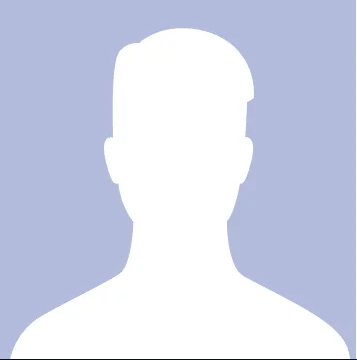
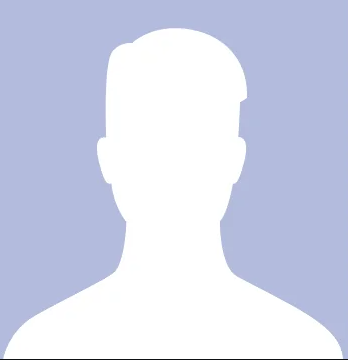
Update

diff --git a/html/presentations.html b/html/presentations.html
@@ -31,82 +31,55 @@ rel="stylesheet"/>
     <div id="Presentars">
         <div class="PresentarBox">
             <div class="PresentarImg">
-                <img src="../images/vedant.jpg" alt="">
+                <img src="../images/profile.png" alt="">
             </div>
             <div class="PresentarTitle">
-                <h1>The Bug Hunters Methodology Live - DEF CON Edition</h1>
-                <h2>Jason Haddix (@jhaddix)</h2>
-                <h3>Workshop | Village Classroom</h3>
+                <h1>T.B.D</h1>
+                <!-- <h2>Jason Haddix (@jhaddix)</h2> -->
+                <!-- <h3>Workshop | Village Classroom</h3> -->
             </div>
             <div class="PresentarAbout">
-                <p>Abstract<br>The Bug Hunter's Methodology (TBHM) is a series of talks done by Jason exposing new advents in tools, tactics, and procedures used in web pentesting, bug bounty, and red teaming. In this talk, Jason will explore the mindset of approaching a hardened web target and how he breaks up finding vulnerabilities across its' stack. Many talks can teach you how to exploit a certain vulnerability, less can teach you how to find out where they are in complex pieces of software. TBHM also covers Jason's personal tips/tricks in the areas of automation, content discovery, javascript analysis, spidering, parameter analysis, functionality ""heatmapping"", and more. The DEF CON edition will not be recorded and will release some free cutting edge content usually only available in Jasons live courses!</p>
+                <!-- <p>Abstract<br>The Bug Hunter's Methodology (TBHM) is a series of talks done by Jason exposing new advents in tools, tactics, and procedures used in web pentesting, bug bounty, and red teaming. In this talk, Jason will explore the mindset of approaching a hardened web target and how he breaks up finding vulnerabilities across its' stack. Many talks can teach you how to exploit a certain vulnerability, less can teach you how to find out where they are in complex pieces of software. TBHM also covers Jason's personal tips/tricks in the areas of automation, content discovery, javascript analysis, spidering, parameter analysis, functionality ""heatmapping"", and more. The DEF CON edition will not be recorded and will release some free cutting edge content usually only available in Jasons live courses!</p> -->
             </div>
         </div>
         <div class="PresentarBox">
             <div class="PresentarImg">
-                <img src="../images/vedant.jpg" alt="">
+                <img src="../images/profile.png" alt="">
             </div>
             <div class="PresentarTitle">
-                <h1>The Bug Hunters Methodology Live - DEF CON Edition</h1>
-                <h2>Jason Haddix (@jhaddix)</h2>
-                <h3>Workshop | Village Classroom</h3>
+                <h1>T.B.D</h1>
+                <!-- <h2>Jason Haddix (@jhaddix)</h2> -->
+                <!-- <h3>Workshop | Village Classroom</h3> -->
             </div>
             <div class="PresentarAbout">
-                <p>Abstract<br>The Bug Hunter's Methodology (TBHM) is a series of talks done by Jason exposing new advents in tools, tactics, and procedures used in web pentesting, bug bounty, and red teaming. In this talk, Jason will explore the mindset of approaching a hardened web target and how he breaks up finding vulnerabilities across its' stack. Many talks can teach you how to exploit a certain vulnerability, less can teach you how to find out where they are in complex pieces of software. TBHM also covers Jason's personal tips/tricks in the areas of automation, content discovery, javascript analysis, spidering, parameter analysis, functionality ""heatmapping"", and more. The DEF CON edition will not be recorded and will release some free cutting edge content usually only available in Jasons live courses!</p>
+                <!-- <p>Abstract<br>The Bug Hunter's Methodology (TBHM) is a series of talks done by Jason exposing new advents in tools, tactics, and procedures used in web pentesting, bug bounty, and red teaming. In this talk, Jason will explore the mindset of approaching a hardened web target and how he breaks up finding vulnerabilities across its' stack. Many talks can teach you how to exploit a certain vulnerability, less can teach you how to find out where they are in complex pieces of software. TBHM also covers Jason's personal tips/tricks in the areas of automation, content discovery, javascript analysis, spidering, parameter analysis, functionality ""heatmapping"", and more. The DEF CON edition will not be recorded and will release some free cutting edge content usually only available in Jasons live courses!</p> -->
             </div>
         </div>
         <div class="PresentarBox">
             <div class="PresentarImg">
-                <img src="../images/vedant.jpg" alt="">
+                <img src="../images/profile.png" alt="">
             </div>
             <div class="PresentarTitle">
-                <h1>The Bug Hunters Methodology Live - DEF CON Edition</h1>
-                <h2>Jason Haddix (@jhaddix)</h2>
-                <h3>Workshop | Village Classroom</h3>
+                <h1>T.B.D</h1>
+                <!-- <h2>Jason Haddix (@jhaddix)</h2> -->
+                <!-- <h3>Workshop | Village Classroom</h3> -->
             </div>
             <div class="PresentarAbout">
-                <p>Abstract<br>The Bug Hunter's Methodology (TBHM) is a series of talks done by Jason exposing new advents in tools, tactics, and procedures used in web pentesting, bug bounty, and red teaming. In this talk, Jason will explore the mindset of approaching a hardened web target and how he breaks up finding vulnerabilities across its' stack. Many talks can teach you how to exploit a certain vulnerability, less can teach you how to find out where they are in complex pieces of software. TBHM also covers Jason's personal tips/tricks in the areas of automation, content discovery, javascript analysis, spidering, parameter analysis, functionality ""heatmapping"", and more. The DEF CON edition will not be recorded and will release some free cutting edge content usually only available in Jasons live courses!</p>
+                <!-- <p>Abstract<br>The Bug Hunter's Methodology (TBHM) is a series of talks done by Jason exposing new advents in tools, tactics, and procedures used in web pentesting, bug bounty, and red teaming. In this talk, Jason will explore the mindset of approaching a hardened web target and how he breaks up finding vulnerabilities across its' stack. Many talks can teach you how to exploit a certain vulnerability, less can teach you how to find out where they are in complex pieces of software. TBHM also covers Jason's personal tips/tricks in the areas of automation, content discovery, javascript analysis, spidering, parameter analysis, functionality ""heatmapping"", and more. The DEF CON edition will not be recorded and will release some free cutting edge content usually only available in Jasons live courses!</p> -->
             </div>
         </div>
         <div class="PresentarBox">
             <div class="PresentarImg">
-                <img src="../images/vedant.jpg" alt="">
+                <img src="../images/profile.png" alt="">
             </div>
             <div class="PresentarTitle">
-                <h1>The Bug Hunters Methodology Live - DEF CON Edition</h1>
-                <h2>Jason Haddix (@jhaddix)</h2>
-                <h3>Workshop | Village Classroom</h3>
+                <h1>T.B.D</h1>
+                <!-- <h2>Jason Haddix (@jhaddix)</h2> -->
+                <!-- <h3>Workshop | Village Classroom</h3> -->
             </div>
             <div class="PresentarAbout">
-                <p>Abstract<br>The Bug Hunter's Methodology (TBHM) is a series of talks done by Jason exposing new advents in tools, tactics, and procedures used in web pentesting, bug bounty, and red teaming. In this talk, Jason will explore the mindset of approaching a hardened web target and how he breaks up finding vulnerabilities across its' stack. Many talks can teach you how to exploit a certain vulnerability, less can teach you how to find out where they are in complex pieces of software. TBHM also covers Jason's personal tips/tricks in the areas of automation, content discovery, javascript analysis, spidering, parameter analysis, functionality ""heatmapping"", and more. The DEF CON edition will not be recorded and will release some free cutting edge content usually only available in Jasons live courses!</p>
+                <!-- <p>Abstract<br>The Bug Hunter's Methodology (TBHM) is a series of talks done by Jason exposing new advents in tools, tactics, and procedures used in web pentesting, bug bounty, and red teaming. In this talk, Jason will explore the mindset of approaching a hardened web target and how he breaks up finding vulnerabilities across its' stack. Many talks can teach you how to exploit a certain vulnerability, less can teach you how to find out where they are in complex pieces of software. TBHM also covers Jason's personal tips/tricks in the areas of automation, content discovery, javascript analysis, spidering, parameter analysis, functionality ""heatmapping"", and more. The DEF CON edition will not be recorded and will release some free cutting edge content usually only available in Jasons live courses!</p> -->
             </div>
-        </div>
-        <div class="PresentarBox">
-            <div class="PresentarImg">
-                <img src="../images/vedant.jpg" alt="">
-            </div>
-            <div class="PresentarTitle">
-                <h1>The Bug Hunters Methodology Live - DEF CON Edition</h1>
-                <h2>Jason Haddix (@jhaddix)</h2>
-                <h3>Workshop | Village Classroom</h3>
-            </div>
-            <div class="PresentarAbout">
-                <p>Abstract<br>The Bug Hunter's Methodology (TBHM) is a series of talks done by Jason exposing new advents in tools, tactics, and procedures used in web pentesting, bug bounty, and red teaming. In this talk, Jason will explore the mindset of approaching a hardened web target and how he breaks up finding vulnerabilities across its' stack. Many talks can teach you how to exploit a certain vulnerability, less can teach you how to find out where they are in complex pieces of software. TBHM also covers Jason's personal tips/tricks in the areas of automation, content discovery, javascript analysis, spidering, parameter analysis, functionality ""heatmapping"", and more. The DEF CON edition will not be recorded and will release some free cutting edge content usually only available in Jasons live courses!</p>
-            </div>
-        </div>
-        <div class="PresentarBox">
-            <div class="PresentarImg">
-                <img src="../images/vedant.jpg" alt="">
-            </div>
-            <div class="PresentarTitle">
-                <h1>The Bug Hunters Methodology Live - DEF CON Edition</h1>
-                <h2>Jason Haddix (@jhaddix)</h2>
-                <h3>Workshop | Village Classroom</h3>
-            </div>
-            <div class="PresentarAbout">
-                <p>Abstract<br>The Bug Hunter's Methodology (TBHM) is a series of talks done by Jason exposing new advents in tools, tactics, and procedures used in web pentesting, bug bounty, and red teaming. In this talk, Jason will explore the mindset of approaching a hardened web target and how he breaks up finding vulnerabilities across its' stack. Many talks can teach you how to exploit a certain vulnerability, less can teach you how to find out where they are in complex pieces of software. TBHM also covers Jason's personal tips/tricks in the areas of automation, content discovery, javascript analysis, spidering, parameter analysis, functionality ""heatmapping"", and more. The DEF CON edition will not be recorded and will release some free cutting edge content usually only available in Jasons live courses!</p>
-            </div>
-        </div>
     </div>
     <div id="ContactSection">
         <div id="ContactBox">

diff --git a/html/conduct.html b/html/conduct.html
@@ -28,44 +28,45 @@ rel="stylesheet"/>
     </div>
     <div id="CodBox">
         <div id="Cod">
-            <h3>Welcome to the Bug Bounty Village at DEF CON! We are committed to creating a safe, inclusive, and respectful environment for all participants. Our Code of Conduct outlines our expectations for participant behavior as well as the consequences for unacceptable behavior.</h3>
-            <h1>1. Purpose</h1>
-            <h6>The Bug Bounty Village aims to foster an open exchange of ideas within a community dedicated to ethical hacking, security research, and responsible disclosure. We invite attendees to explore, learn, and contribute to the event in a positive and respectful manner.</h6>
-            <h1>2. Expected Behavior</h1>
+            <h3>Welcome to the Cloud Village at the Seasides Security Conference! We are dedicated to fostering a safe, inclusive, and respectful environment for all participants. This Code of Conduct outlines our expectations for behavior and the consequences for unacceptable actions.</h3>
+            <h2>1. Purpose</h2>
+            <p>The Cloud Village aims to create a collaborative space for individuals interested in cloud security, ethical hacking, and responsible disclosure. We encourage attendees to engage, learn, and contribute positively to the community.</p>
+            <h2>2. Expected Behavior</h2>
             <ul>
-                <li>Respect for All: Treat all participants with respect and consideration, valuing a diversity of views, opinions and people.</li>
-                <li>Collaboration: Engage in professional and supportive communication. Collaborate to help each other learn.</li>
-                <li>Inclusivity: Be inclusive and supportive of people from all backgrounds and skill levels.</li>
-                <li>Constructive Engagement: Critique ideas, not individuals. Provide constructive feedback and practice gracious acceptance of constructive criticism.</li>
-                <li>Responsible Ethical Conduct: Engage in ethical hacking practices only. Respect the rules of the village and the broader DEF CON event.</li>
+                <li><b>Respect for All:</b> Treat all participants with respect and consideration, valuing diverse perspectives and backgrounds    .</li>
+                <li><b>Collaboration:</b> Engage in supportive communication and work together to enhance learning experiences.</li>
+                <li><b>Inclusivity:</b> Foster an inclusive atmosphere that welcomes individuals from all backgrounds and skill levels.</li>
+                <li><b>Constructive Engagement:</b> Focus on critiquing ideas rather than individuals. Provide constructive feedback and graciously accept criticism.</li>
+                <li><b>Responsible Ethical Conduct:</b> Adhere to ethical hacking practices and respect the rules of the Cloud Village and the Seasides Security Conference.</li>
             </ul>
-            <h1>3. Unacceptable Behavior</h1>
-            <h6>Unacceptable behaviors include, but are not limited to:</h6>
+            <h2>3. Unacceptable Behavior</h2>
+            <p>Unacceptable behaviors include, but are not limited to:</p>
             <ul>
-                <li>Harassment and Discrimination: Intimidating, harassing, abusive, discriminatory, derogatory, or demeaning conduct towards any individual or group.</li>
-                <li>Disruption: Disrupting presentations, talks, or other events.</li>
-                <li>Inappropriate Content: Posting or displaying sexually explicit or violent material.</li>
-                <li>Illegal Activities: Engaging in or encouraging illegal behavior of any nature, including illegal hacking.</li>
+                <li><b>Harassment and Discrimination:</b> Intimidating, harassing, abusive, discriminatory, or derogatory conduct towards any individual or group.</li>
+                <li><b>Disruption:</b> Disrupting presentations, discussions, or other events.</li>
+                <li><b>Inappropriate Content:</b> Displaying sexually explicit or violent material.</li>
+                <li><b>Illegal Activities:</b> Engaging in or promoting illegal behavior, including unauthorized hacking.</li>
             </ul>
-            <h1>4. Consequences of Unacceptable Behavior</h1>
-            <h6>Unacceptable behavior will not be tolerated. Anyone asked to stop unacceptable behavior is expected to comply immediately. Consequences for violating the Code of Conduct may include:</h6>
+            <h2>4. Consequences of Unacceptable Behavior</h2>
+            <p>Unacceptable behavior will not be tolerated. Individuals asked to cease such behavior are expected to comply immediately. Consequences for violations may include:</p>
             <ul>
-                <li>Removal from the Village: Participants violating these rules may be expelled from the village at the discretion of the village organizers.</li>
-                <li>Banning from Virtual Communities: Offenders may be prohibited from joining future virtual forums, online communities, or Discord servers related to the village.</li>
-                <li>Reporting to DEF CON Organizers and Law Enforcement: Serious breaches will be escalated to DEF CON conference organizers, and if necessary, reported to law enforcement.</li>
+                <li><b>Removal from the Village:</b> Participants may be expelled from the Cloud Village at the discretion of the organizers.</li>
+                <li><b>Banning from Virtual Communities:</b> Offenders may be prohibited from attending future events or participating in related online communities.</li>
+                <li><b>Banning from Virtual Communities:</b> Serious breaches will be escalated to the Seasides Conference organizers and, if necessary, reported to law enforcement.</li>
             </ul>
-            <h1>5. Reporting Guidelines</h1>
-            <h6>If you are subject to or witness unacceptable behavior, or have any other concerns, please notify a village organizer as soon as possible. Additionally, village staff can be identified by their staff badges, t-shirts, or titles, and will be trained on how to address and report any incidents that occur.</h6>
-            <h1>6. Scope</h1>
-            <h6>This Code of Conduct applies to all participants at the event, including hackers, volunteers, organizers, and anyone with an official role in the village. The policies also apply at all related social events and in digital spaces associated with the village.</h6>
-            <h1>7. Liability of Information Disclosure</h1>
-            <h6>All discussions, presentations, and content presented within the village are the responsibility of the individual presenters or speakers. It is the duty of each presenter or speaker to ensure they have undergone the appropriate responsible disclosure processes and obtained all necessary consents for the information they disclose. Presenters and speakers are solely liable for ensuring that they are authorized to share any discussed material. The village organizers, staff, or DEF CON are not responsible for unauthorized disclosures by presenters or speakers.</h6>
-            <h1>8. Contact Information</h1>
-            <h6>For any questions or to report a violation of our Code of Conduct, please contact via contact[at]bugbountydefcon.com directly.</h6>
-            <h1>9. General Courtesy</h1>
-            <h6>Remember, the spirit of DEF CON is about community and innovation. Let’s keep our interactions positive and professional — don’t be a jerk. We all play a part in creating a welcoming environment. Let's make sure our conduct ensures that DEF CON continues to invite us back year after year.</h6>
-            <h1>10. License and Attribution</h1>
-            <h6>This Code of Conduct is adapted from the DEF CON Code of Conduct, and other recognized sources to fit the specific needs of the DEF CON Bug Bounty Village.</h6>
+            <h2>5. Reporting Guidelines</h2>
+            <p>If you experience or witness unacceptable behavior, or have any concerns, please notify a Cloud Village organizer as soon as possible. Organizers can be identified by their badges and will be trained to address and report incidents effectively.</p>
+            <h2>6. Scope</h2>
+            <p>This Code of Conduct applies to all participants at the Cloud Village, including attendees, volunteers, organizers, and anyone with an official role. It also extends to related social events and digital spaces associated with the Village.</p>
+            <h2>7. Liability of Information Disclosure</h2>
+            <p>All discussions, presentations, and content shared within the Cloud Village are the responsibility of the individual presenters. Each presenter must ensure they have followed appropriate responsible disclosure processes and obtained necessary consents for any information shared. The Cloud Village organizers and Seasides Conference are not liable for unauthorized disclosures by presenters.</p>
+            <h2>8. Contact Information</h2>
+            <p>For questions or to report a violation of this Code of Conduct, please contact us at support[at]seasidestech.com.</p>
+            <h2>9. General Courtesy</h2>
+            <p>The spirit of the Cloud Village is rooted in community and innovation. Let’s maintain positive and professional interactions — be kind and respectful. Together, we can create a welcoming environment that ensures the Seasides Conference remains a place for everyone.</p>
+            <h2>10. License and Attribution</h2>
+            <p>This Code of Conduct is adapted from various recognized sources to fit the specific needs of the Cloud Village at the Seasides Security Conference.
+            </p>
         </div>
     </div>
     <div id="ContactSection">

diff --git a/html/organizers.html b/html/organizers.html
@@ -30,50 +30,50 @@ rel="stylesheet"/>
         <div id="OrganizerBox">
             <div class="OrgCard">
                 <div class="OrgImg">
-                    <img src="../images/vedant.jpg" alt="">
+                    <img src="../images/profile.png" alt="">
                 </div>
                 <div class="Orgdetail">
                     <p>Harley Kimball, also known by the handle infinitelogins, has actively participated in the hacker community for over a decade, specifically focusing on the bug bounty space for the last two years. Harley is an experienced pentester and bug bounty hunter with over eight years of technical expertise in information security. Harley is a prominent figure in the cybersecurity community, managing a well-known blog and YouTube channel that boasts over 10,000 followers. Harley actively participates in local information security meetups and conferences, including RainSec and BSides PDX. Additionally, Harley is deeply engaged with Discord communities and content creation groups, and plays a key role in organizing Live Hacking Events and HactivityCon for HackerOne.</p>
                 </div>
                 <div class="OrgTitle">
-                    <h3>Ariel Garcia</h3>
-                    <h3>(@arl_rose)</h3>
+                    <h3>Vedant Jain</h3>
+                    <h3>(@Hny)</h3>
                 </div>
             </div>
             <div class="OrgCard">
                 <div class="OrgImg">
-                    <img src="../images/vedant.jpg" alt="">
+                    <img src="../images/profile.png" alt="">
                 </div>
                 <div class="Orgdetail">
                     <p>Harley Kimball, also known by the handle infinitelogins, has actively participated in the hacker community for over a decade, specifically focusing on the bug bounty space for the last two years. Harley is an experienced pentester and bug bounty hunter with over eight years of technical expertise in information security. Harley is a prominent figure in the cybersecurity community, managing a well-known blog and YouTube channel that boasts over 10,000 followers. Harley actively participates in local information security meetups and conferences, including RainSec and BSides PDX. Additionally, Harley is deeply engaged with Discord communities and content creation groups, and plays a key role in organizing Live Hacking Events and HactivityCon for HackerOne.</p>
                 </div>
                 <div class="OrgTitle">
-                    <h3>Ariel Garcia</h3>
-                    <h3>(@arl_rose)</h3>
+                    <h3>Vedant Jain</h3>
+                    <h3>(@Hny)</h3>
                 </div>
             </div>
             <div class="OrgCard">
                 <div class="OrgImg">
-                    <img src="../images/vedant.jpg" alt="">
+                    <img src="../images/profile.png" alt="">
                 </div>
                 <div class="Orgdetail">
                     <p>Harley Kimball, also known by the handle infinitelogins, has actively participated in the hacker community for over a decade, specifically focusing on the bug bounty space for the last two years. Harley is an experienced pentester and bug bounty hunter with over eight years of technical expertise in information security. Harley is a prominent figure in the cybersecurity community, managing a well-known blog and YouTube channel that boasts over 10,000 followers. Harley actively participates in local information security meetups and conferences, including RainSec and BSides PDX. Additionally, Harley is deeply engaged with Discord communities and content creation groups, and plays a key role in organizing Live Hacking Events and HactivityCon for HackerOne.</p>
                 </div>
                 <div class="OrgTitle">
-                    <h3>Ariel Garcia</h3>
-                    <h3>(@arl_rose)</h3>
+                    <h3>Vedant Jain</h3>
+                    <h3>(@Hny)</h3>
                 </div>
             </div>
             <div class="OrgCard">
                 <div class="OrgImg">
-                    <img src="../images/vedant.jpg" alt="">
+                    <img src="../images/profile.png" alt="">
                 </div>
                 <div class="Orgdetail">
                     <p>Harley Kimball, also known by the handle infinitelogins, has actively participated in the hacker community for over a decade, specifically focusing on the bug bounty space for the last two years. Harley is an experienced pentester and bug bounty hunter with over eight years of technical expertise in information security. Harley is a prominent figure in the cybersecurity community, managing a well-known blog and YouTube channel that boasts over 10,000 followers. Harley actively participates in local information security meetups and conferences, including RainSec and BSides PDX. Additionally, Harley is deeply engaged with Discord communities and content creation groups, and plays a key role in organizing Live Hacking Events and HactivityCon for HackerOne.</p>
                 </div>
                 <div class="OrgTitle">
-                    <h3>Ariel Garcia</h3>
-                    <h3>(@arl_rose)</h3>
+                    <h3>Vedant Jain</h3>
+                    <h3>(@Hny)</h3>
                 </div>
             </div>
         </div>

diff --git a/css/conduct.css b/css/conduct.css
@@ -87,9 +87,9 @@ html,body{
     flex-direction: column;
     box-sizing: border-box;
 }
-#Cod h1{
+#Cod h2{
     margin-top: 30px;
-    font-size: 32px;
+    font-size: 28px;
 }
 #Cod h3{
     text-align: center;
@@ -97,7 +97,7 @@ html,body{
     font-weight: 300;
     line-height: 24px;
 }
-#Cod h6{
+#Cod p{
     margin-top: 10px;
     font-size: 18px;
     font-weight: 300;
@@ -108,6 +108,7 @@ html,body{
     font-weight: 300;
     line-height: 22px;
     margin-left: 30px;
+    margin-top: 24px;
 }
 #ContactSection{
     width: 100%;

diff --git a/index.html b/index.html
@@ -82,7 +82,7 @@
         </div>
     </div>
     <div id="AgendaSection"></div>
-    <div id="SponsorsSection"></div>
+    <div id="SponsorsSection"><img src="./images/TBD.jpg" alt=""></div>
     <div id="ContactSection">
         <div id="ContactBox">
             <div id="Left">

diff --git a/css/style.css b/css/style.css
@@ -275,6 +275,10 @@ html,body{
     height: 100%;
     background-color:rgb(108, 110, 98);
 }
+#SponsorsSection img{
+    width: 100%;
+    height: 100%;
+}
 #ContactSection{
     width: 100%;
     height: 55%;

diff --git a/css/organizers.css b/css/organizers.css
@@ -128,9 +128,9 @@ html,body{
     color: white;
     font-weight: 600;
     font-size: 20px;
+    text-align: center;
 
 }
-
 #ContactSection{
     width: 100%;
     height: 55%;
